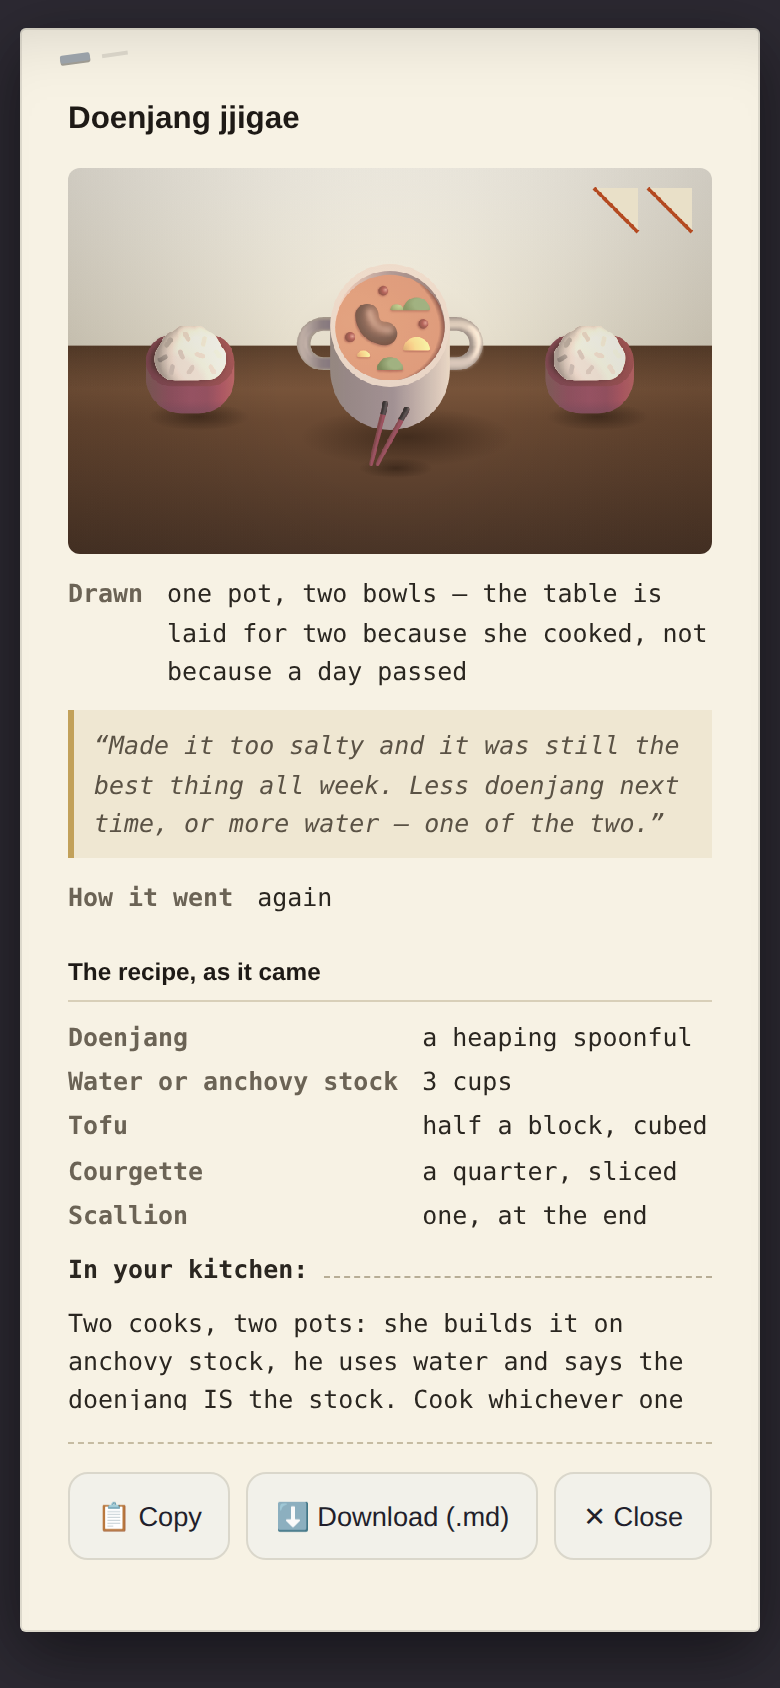
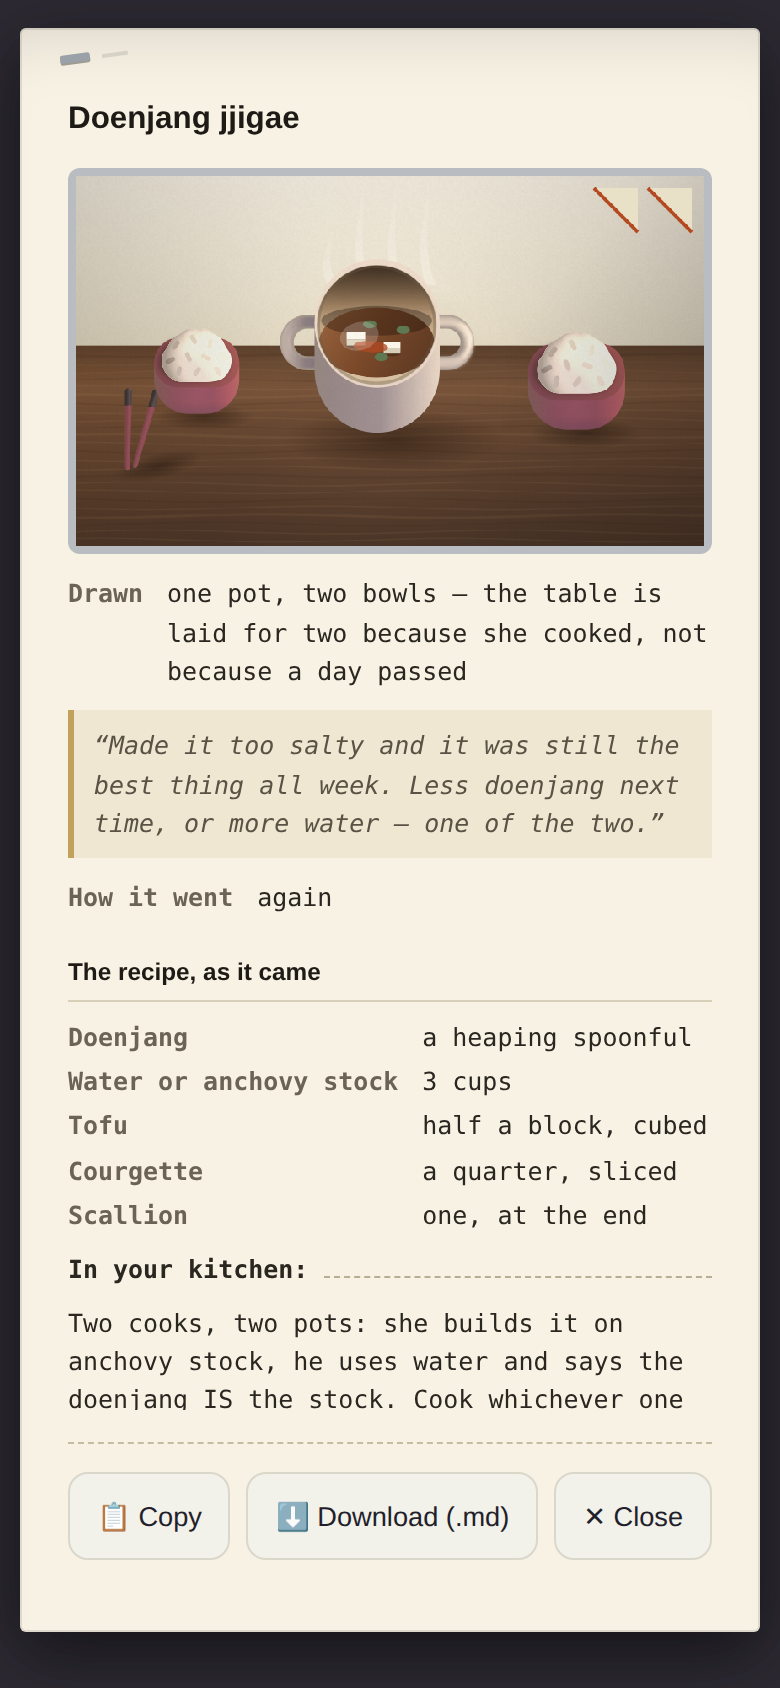
The pot is a hollow now, not a disc — the owner's catch, fixed in three passes
"the stew looks circular but we are looking at the pot from an angle." Correct,
and it is the same fault Pili named in our own first drawings: two cameras in
one object. The borrowed pot is drawn front-on and its contents from above.

potFace() clips to the icon's own opening and repaints it in OUR camera: the
inner wall of the pot, with the liquid below the rim as an ellipse. Three passes,
each one fixing what the last one showed on screen:

1. Guessed geometry left a crescent of the original showing. Fixed by measuring
   rather than eyeballing — the icon rendered to a buffer and its warm region
   found by pixel: centre (0.498, 0.453), radius 0.256. Guessing had it 4% too
   high and 10% too small. The measurement also contains his observation as
   arithmetic: rx 0.256 against ry 0.246, so the contents really are a circle.
2. The repaint read as a DOME, a ball sitting in the pot, because the wall ran
   light downward. A hollow is dark at the TOP where the near rim shadows the far
   wall. Inverted, plus the rim's cast shadow onto it.
3. A tan crescent under the liquid: the ellipse now reaches the near rim.

The other two got the same treatment and each demonstrates something. Namul is
the identical repaint in green, because the borrowed pan is full of yellow rice
— the technique transferred for the cost of one colour table, which is why it
was worth building once. Kimbap uses NO borrowed dish: the nearest icon is
[…]

diff --git a/docs/mocks/2026-09-15-simmer-book/render-borrowed.js b/docs/mocks/2026-09-15-simmer-book/render-borrowed.js
@@ -33,14 +33,85 @@ const ICONS={};['pot-of-food','cooked-rice','sushi','hot-pepper','leafy-green','
      const I=window.__IMG;
      const stage=(g,W,H)=>{const cy=H*0.46;
        const wall=g.createLinearGradient(0,0,0,cy);
-       wall.addColorStop(0,"#FBF7EC");wall.addColorStop(1,"#E4DDCB");
+       wall.addColorStop(0,"#FCF6E8");wall.addColorStop(1,"#E2D8C2");   /* warmer than the first pass */
        g.fillStyle=wall;g.fillRect(0,0,W,cy);
        const top=g.createLinearGradient(0,cy,0,H);
        top.addColorStop(0,"#8A6244");top.addColorStop(0.35,"#6B4A33");top.addColorStop(1,"#4C3628");
        g.fillStyle=top;g.fillRect(0,cy,W,H-cy);
+       /* wood: a counter with no grain is a brown rectangle, which is the fault the flat pictures had */
+       g.save();g.globalAlpha=0.10;
+       for(let i=0;i<26;i++){const y=cy+6+i*((H-cy)/26);
+         g.strokeStyle=(i%3===0)?"#2B1D12":"#C79A6E";g.lineWidth=(i%5===0)?1.6:0.8;
+         g.beginPath();g.moveTo(0,y);
+         for(let x=0;x<=W;x+=18)g.lineTo(x,y+Math.sin((x*0.03)+i)*1.1);
+         g.stroke();}
+       g.restore();
        const seam=g.createLinearGradient(0,cy,0,cy+26);
        seam.addColorStop(0,"rgba(26,16,10,0.42)");seam.addColorStop(1,"rgba(26,16,10,0)");
        g.fillStyle=seam;g.fillRect(0,cy,W,26);return cy;};
+     /* steam — OURS, not borrowed, and it is the proof of the layering idea: the code owns the
+        atmosphere, the illustration owns the object. Hot food that gives off nothing reads as a toy. */
+     const steam=(g,cx,topY,w)=>{g.save();
+       for(let i=0;i<4;i++){const x=cx-w*0.24+i*(w*0.16), h=w*(0.42+((i*37)%19)/50);
+         const gr=g.createLinearGradient(x,topY-h,x,topY);
+         gr.addColorStop(0,"rgba(255,252,244,0)");gr.addColorStop(0.45,"rgba(255,252,244,0.20)");
+         gr.addColorStop(1,"rgba(255,252,244,0.34)");
+         g.fillStyle=gr;g.beginPath();
+         g.moveTo(x,topY);
+         g.bezierCurveTo(x-w*0.09,topY-h*0.35, x+w*0.09,topY-h*0.65, x-w*0.02,topY-h);
+         g.bezierCurveTo(x+w*0.07,topY-h*0.62, x-w*0.05,topY-h*0.33, x+w*0.05,topY);
+         g.closePath();g.fill();}
+       g.restore();};
+     /* one warm key across the whole scene, so borrowed objects and our room share a light */
+     const relight=(g,W,H)=>{
+       const k=g.createLinearGradient(0,0,W*0.9,H);
+       k.addColorStop(0,"rgba(255,226,170,0.20)");k.addColorStop(0.45,"rgba(255,226,170,0)");
+       g.save();g.globalCompositeOperation="overlay";g.fillStyle=k;g.fillRect(0,0,W,H);g.restore();
+       const c=g.createLinearGradient(W,H,W*0.3,0);
+       c.addColorStop(0,"rgba(60,70,110,0.16)");c.addColorStop(0.5,"rgba(60,70,110,0)");
+       g.save();g.globalCompositeOperation="multiply";g.fillStyle=c;g.fillRect(0,0,W,H);g.restore();};
+     let NOISE=null;
+     const grain=(g,W,H)=>{ if(!NOISE){let sd=0x9E3779B9;const r=()=>{sd=(sd*1664525+1013904223)>>>0;return sd/4294967296;};
+         const n=document.createElement("canvas");n.width=n.height=96;const q=n.getContext("2d");
+         const d=q.createImageData(96,96);
+         for(let i=0;i<d.data.length;i+=4){const v=200+r()*55;d.data[i]=d.data[i+1]=d.data[i+2]=v;d.data[i+3]=255;}
+         q.putImageData(d,0,0);NOISE=n;}
+       g.save();g.globalAlpha=0.075;g.globalCompositeOperation="multiply";
+       for(let y=0;y<H;y+=96)for(let x=0;x<W;x+=96)g.drawImage(NOISE,x,y);g.restore();};
+     const frame=(g,W,H)=>{g.strokeStyle="#B9BCC0";g.lineWidth=5;g.strokeRect(2.5,2.5,W-5,H-5);};
+     /* THE PERSPECTIVE FIX (owner, 2026-09-15: "the stew looks circular but we are looking at the pot
+        from an angle"). The borrowed pot is drawn front-on and its contents from straight above —
+        two cameras in one object, which is the exact fault Pili named in our own first drawings.
+        So we repaint the opening: the inner wall of the pot, seen from our angle, with the liquid
+        sitting BELOW the rim as an ellipse. You look into it now instead of at a disc stuck on it. */
+     const potFace=(g,cx,cy,r,o)=>{
+       o=o||{};
+       g.save();
+       g.beginPath();g.ellipse(cx,cy,r*1.02,r*1.02,0,0,7);g.clip();   /* only ever inside the original opening */
+       /* CONCAVE, not convex. The first pass ran light DOWNWARD and the opening read as a dome — a
+          ball sitting in the pot. A hollow is dark where the near rim shadows the far wall, i.e. at
+          the TOP, and lightens as the wall turns toward the light further down. */
+       const wall=g.createLinearGradient(0,cy-r,0,cy+r*0.4);
+       wall.addColorStop(0,o.wallTop||"#6E5741");wall.addColorStop(0.45,o.wallMid||"#A98A68");
+       wall.addColorStop(1,o.wallLow||"#D8C2A2");
+       g.fillStyle=wall;g.fillRect(cx-r*1.1,cy-r*1.1,r*2.2,r*2.2);
+       /* the rim's own shadow, thrown down onto the far wall — the single cue that says "inside" */
+       const sh=g.createLinearGradient(0,cy-r,0,cy-r*0.15);
+       sh.addColorStop(0,"rgba(30,18,10,0.55)");sh.addColorStop(1,"rgba(30,18,10,0)");
+       g.fillStyle=sh;g.fillRect(cx-r*1.1,cy-r*1.1,r*2.2,r*1.1);
+       const ly=cy+r*0.30, lrx=r*0.99, lry=r*0.60;                    /* the liquid, an ELLIPSE, reaching the near rim */
+       const br=g.createLinearGradient(cx-lrx,ly-lry,cx+lrx,ly+lry);
+       br.addColorStop(0,o.high||"#9A6540");br.addColorStop(0.45,o.base||"#7C4A2A");br.addColorStop(1,o.core||"#583621");
+       g.fillStyle=br;g.beginPath();g.ellipse(cx,ly,lrx,lry,0,0,7);g.fill();
+       g.fillStyle="rgba(24,12,6,0.35)";                              /* the wall's shadow on the far side of the liquid */
+       g.beginPath();g.ellipse(cx,ly-lry*0.62,lrx*0.96,lry*0.42,0,0,7);g.fill();
+       if(o.top)o.top(g,cx,ly,lrx,lry);
+       g.save();g.globalAlpha=0.20;g.fillStyle="#FFFFFF";             /* one wide, soft sheen: liquid, not gloss */
+       g.beginPath();g.ellipse(cx-lrx*0.30,ly-lry*0.18,lrx*0.34,lry*0.40,-0.25,0,7);g.fill();g.restore();
+       g.restore();
+       g.save();g.globalAlpha=0.35;g.strokeStyle="#6B5B48";g.lineWidth=2;  /* the rim, back onto the repaint */
+       g.beginPath();g.ellipse(cx,cy,r*1.0,r*1.0,0,0,7);g.stroke();g.restore();
+     };
      const drop=(g,cx,cy,rx,ry,a)=>{const gr=g.createRadialGradient(cx,cy,0,cx,cy,rx);
        gr.addColorStop(0,"rgba(30,18,10,"+a+")");gr.addColorStop(0.6,"rgba(30,18,10,"+a*0.4+")");
        gr.addColorStop(1,"rgba(30,18,10,0)");
@@ -59,9 +130,34 @@ const ICONS={};['pot-of-food','cooked-rice','sushi','hot-pepper','leafy-green','
      const P={
        jjigae:{t:"Doenjang jjigae",folds:2,
          art:(g,W,H)=>{const cy=stage(g,W,H);
-           put(g,"cooked_rice",W*0.19,cy+44,60);put(g,"cooked_rice",W*0.81,cy+44,60);
-           put(g,"pot_of_food",W*0.50,cy+58,126);put(g,"chopsticks",W*0.50,cy+74,44);
-           vign(g,W,H);folds(g,W,H,2);},
+           /* the chopsticks were UNDER the pot and read as legs. They lie on the counter now, to
+              one side, behind nothing. */
+           g.save();g.translate(W*0.13,cy+74);g.rotate(-0.22);   /* on the counter, in front, touching nothing */
+           put(g,"chopsticks",0,0,54);g.restore();
+           put(g,"cooked_rice",W*0.20,cy+44,58);                 /* back left, smaller: depth */
+           put(g,"cooked_rice",W*0.79,cy+54,66);                 /* front right, larger */
+           steam(g,W*0.48,cy-36,120);
+           const S=132, PX=W*0.48, PY=cy+60;
+           put(g,"pot_of_food",PX,PY,S);
+           /* MEASURED, not eyeballed: the icon was rendered to a buffer and the warm region found by
+              pixel, giving centre (0.498, 0.453) and radius 0.256 of its box — and rx 0.256 against
+              ry 0.246 is the arithmetic of the owner's own observation: the contents really are a
+              circle. Guessing put it 4% too high and 10% too small, which is what left a crescent
+              of the original showing. */
+           potFace(g, PX+S*(0.498-0.5), PY-S+S*0.453, S*0.262, {top:(g,cx,ly,lrx,lry)=>{
+             const cube=(x,y,w,h)=>{g.fillStyle="rgba(24,12,6,0.30)";
+               g.beginPath();g.ellipse(x+w/2,y+h*0.95,w*0.55,h*0.28,0,0,7);g.fill();
+               g.fillStyle="#FBF7EA";g.fillRect(x,y,w,h*0.55);
+               g.fillStyle="#D9D0BA";g.fillRect(x,y+h*0.55,w,h*0.45);};
+             cube(cx-lrx*0.52,ly-lry*0.30,11,8);
+             cube(cx+lrx*0.12,ly-lry*0.02,10,7);
+             g.fillStyle="#5F7A52";
+             [[-0.12,-0.52],[0.46,-0.36],[0.08,0.42]].forEach(([a,b])=>{
+               g.beginPath();g.ellipse(cx+lrx*a,ly+lry*b,4,2.4,0,0,7);g.fill();});
+             g.save();g.globalAlpha=0.75;g.fillStyle="#B44A21";
+             g.beginPath();g.ellipse(cx-lrx*0.10,ly+lry*0.12,lrx*0.30,lry*0.16,0.06,0,7);g.fill();g.restore();
+           }});
+           relight(g,W,H);vign(g,W,H);grain(g,W,H);folds(g,W,H,2);frame(g,W,H);},
          drew:"one pot, two bowls — the table is laid for two because she cooked, not because a day passed",
          said:"“Made it too salty and it was still the best thing all week. Less doenjang next time, or more water — one of the two.”",
          mark:"again",
@@ -69,9 +165,31 @@ const ICONS={};['pot-of-food','cooked-rice','sushi','hot-pepper','leafy-green','
          credit:"Two cooks, two pots: she builds it on anchovy stock, he uses water and says the doenjang IS the stock. Cook whichever one you are."},
        kimbap:{t:"Kimbap",folds:3,
          art:(g,W,H)=>{const cy=stage(g,W,H);
-           [[0.16,58],[0.36,50],[0.57,62],[0.78,52]].forEach(([x,s],i)=>put(g,"sushi",W*x,cy+40+(i%2)*5,s));
-           put(g,"hot_pepper",W*0.92,cy+28,38);
-           vign(g,W,H);folds(g,W,H,3);},
+           /* NO borrowed dish here: the nearest icon is nigiri and nigiri is not kimbap. So the room
+              is borrowed and the dish is ours — which is the mix, demonstrated rather than argued. */
+           put(g,"chopsticks",W*0.88,cy+46,50);
+           g.fillStyle="#D4D8DC";g.fillRect(W*0.07,cy+34,W*0.72,9);        /* a steel board */
+           g.fillStyle="#9EA3A8";g.fillRect(W*0.07,cy+43,W*0.72,4);
+           const d=[44,37,47,39,45,35], gap=3;                              /* uneven: her cuts */
+           let x=W*0.085;
+           d.forEach(sz=>{
+             const ccx=x+sz/2, ccy=cy+34-sz*0.30;
+             g.fillStyle="rgba(26,16,10,0.34)";
+             g.beginPath();g.ellipse(ccx+2,cy+36,sz*0.42,sz*0.12,0,0,7);g.fill();
+             const nori=g.createLinearGradient(ccx-sz/2,ccy-sz/2,ccx+sz/2,ccy+sz/2);
+             nori.addColorStop(0,"#31402A");nori.addColorStop(1,"#141B12");
+             g.fillStyle=nori;g.beginPath();g.ellipse(ccx,ccy,sz/2,sz/2*0.82,0,0,7);g.fill();
+             const rice=g.createLinearGradient(ccx-sz/2,ccy-sz/2,ccx+sz/2,ccy+sz/2);
+             rice.addColorStop(0,"#FFFDF4");rice.addColorStop(1,"#DCD3BE");
+             g.fillStyle=rice;g.beginPath();g.ellipse(ccx,ccy,sz/2-5,(sz/2-5)*0.82,0,0,7);g.fill();
+             g.fillStyle="#E8C15A";g.fillRect(ccx-5,ccy-4,10,7);
+             g.fillStyle="#5F7A52";g.fillRect(ccx-9,ccy+1,6,4);
+             g.fillStyle="#B44A21";g.fillRect(ccx+3,ccy+2,5,3);
+             g.save();g.globalAlpha=0.35;g.fillStyle="#FFFFFF";
+             g.beginPath();g.ellipse(ccx-sz*0.16,ccy-sz*0.18,sz*0.10,sz*0.07,-0.4,0,7);g.fill();g.restore();
+             x+=sz+gap;});
+           put(g,"hot_pepper",W*0.90,cy+30,34);
+           relight(g,W,H);vign(g,W,H);grain(g,W,H);folds(g,W,H,3);frame(g,W,H);},
          drew:"rounds cut by hand — uneven, and nothing in the game says so",
          said:"“The cutting is the good part. Mine are all different sizes and I don’t care.”",
          mark:"again",
@@ -79,10 +197,25 @@ const ICONS={};['pot-of-food','cooked-rice','sushi','hot-pepper','leafy-green','
          credit:"Laid piece by piece, then cut. The pieces are the point; the line you cut along is yours."},
        namul:{t:"Sigeumchi namul",folds:1,
          art:(g,W,H)=>{const cy=stage(g,W,H);
-           put(g,"leafy_green",W*0.20,cy+38,54);
-           put(g,"shallow_pan_of_food",W*0.53,cy+54,116);
-           put(g,"chopsticks",W*0.86,cy+40,52);
-           vign(g,W,H);folds(g,W,H,1);},
+           g.save();g.translate(W*0.87,cy+62);g.rotate(0.24);put(g,"chopsticks",0,0,54);g.restore();
+           put(g,"leafy_green",W*0.17,cy+40,52);
+           const S=124, PX=W*0.52, PY=cy+58;
+           put(g,"shallow_pan_of_food",PX,PY,S);
+           /* the borrowed pan is full of yellow rice. Same repaint, green: the technique transfers,
+              which is the point of having built it once. */
+           potFace(g, PX+S*(0.498-0.5), PY-S+S*0.455, S*0.250, {
+             wallTop:"#6E5741",wallMid:"#A98A68",wallLow:"#D8C2A2",
+             high:"#6B8A5C",base:"#4E6B45",core:"#374E36",
+             top:(g,cx,ly,lrx,lry)=>{
+               g.fillStyle="#7E9C6A";
+               [[-0.44,-0.10],[0.10,-0.28],[0.38,0.12],[-0.12,0.30]].forEach(([a,b])=>{
+                 g.save();g.translate(cx+lrx*a,ly+lry*b);g.rotate(a*1.4);
+                 g.beginPath();g.ellipse(0,0,lrx*0.22,lry*0.16,0,0,7);g.fill();g.restore();});
+               g.fillStyle="#F2ECDA";
+               [[-0.30,0.18],[0.22,-0.10],[0.02,0.40],[0.44,0.30],[-0.50,-0.30]].forEach(([a,b])=>{
+                 g.beginPath();g.ellipse(cx+lrx*a,ly+lry*b,2.2,1.6,0,0,7);g.fill();});  /* sesame */
+             }});
+           relight(g,W,H);vign(g,W,H);grain(g,W,H);folds(g,W,H,1);frame(g,W,H);},
          drew:"one small dish and a pair of chopsticks — the whole thing is five minutes",
          said:"“Didn’t feel like cooking. Made this anyway and ate it standing up.”",
          mark:"fine",

diff --git a/docs/mocks/2026-09-15-simmer-book/LICENCES.md b/docs/mocks/2026-09-15-simmer-book/LICENCES.md
@@ -50,3 +50,33 @@ win, and on the kimbap page the trade is clearly bad.
 **Which is exactly what a placeholder is for.** Three pages that say "a kitchen, some dishes, a book
 that fills up" are enough to ask *"do you want a fourth page?"*. They are not enough to ask *"does
 this look right?"* — and nobody should be asked the second question with these on screen.
+
+## The improvement pass — 2026-09-15, later
+
+The owner: *"can you improve the first one?"* and then, looking at it, **"the stew looks circular but
+we are looking at the pot from an angle."** He was right, and it is the same fault Pili named in our
+own drawings: **two cameras in one object.** The borrowed pot is drawn front-on and its contents from
+straight above.
+
+**So the opening is repainted.** `potFace()` clips to the icon's own opening, paints the inner wall of
+the pot as seen from OUR angle, and sits the liquid below the rim as an ellipse. Three passes, each
+fixing something the previous one showed:
+
+1. **Guessed geometry left a crescent.** Fixed by MEASURING: the icon was rendered to a buffer and
+   its warm region found by pixel — centre (0.498, 0.453), radius 0.256 of its box. Guessing had put
+   it 4% too high and 10% too small. *And the measurement contains the owner's own observation as
+   arithmetic: rx 0.256 against ry 0.246. The contents really are a circle.*
+2. **The repaint read as a dome** — a ball sitting in the pot — because the wall ran light downward.
+   A hollow is **dark at the top**, where the near rim shadows the far wall. Inverted, plus the rim's
+   own cast shadow onto the wall, and it reads as inside.
+3. **A tan crescent showed under the liquid.** The ellipse now reaches the near rim.
+
+**The other two, and what each one demonstrates:**
+- **Namul** — the same repaint in green, because the borrowed pan is full of yellow rice. The
+  technique transferred at the cost of one colour table, which is the reason for building it once.
+- **Kimbap** — **no borrowed dish at all.** The nearest icon is nigiri and nigiri is not kimbap, so
+  the room is borrowed and the dish is ours. That is the hybrid demonstrated rather than argued.
+
+**Also added and ours, not borrowed:** wood grain on the counter, steam rising from the pot (the
+layering idea standing still), one warm key across the whole scene so borrowed objects and our room
+share a light, seeded grain, and a frame.
